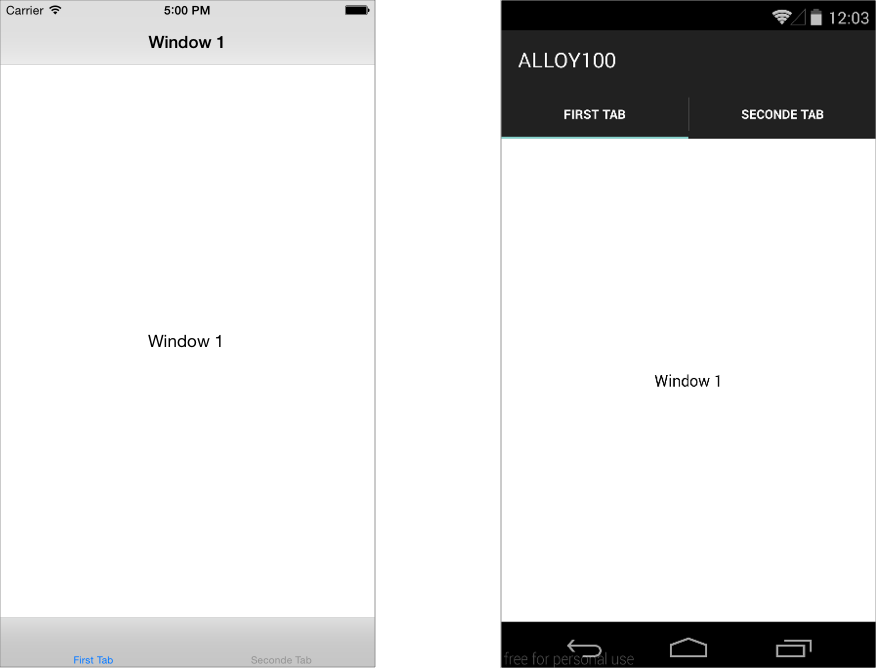
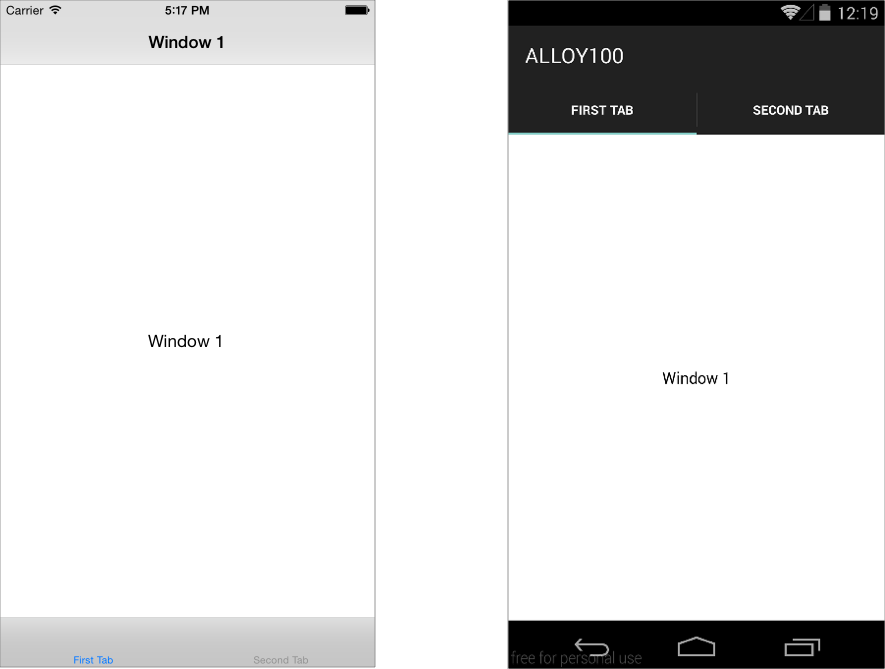
fixed typo in screenshot

diff --git a/ALLOY100/README.md b/ALLOY100/README.md
@@ -11,4 +11,4 @@ Create a basic Two-tab Alloy app.  Tab 1 should be named **First Tab** and Tab 2
 
 ## Resources
 
-* [Finalized Project](http://github.com/appcelerator-training/learning-module-labs.zip)
+* [Finalized Project Repository](https://github.com/appcelerator-training/learning-modules-labs/tree/master/ALLOY100/ALLOY100)
